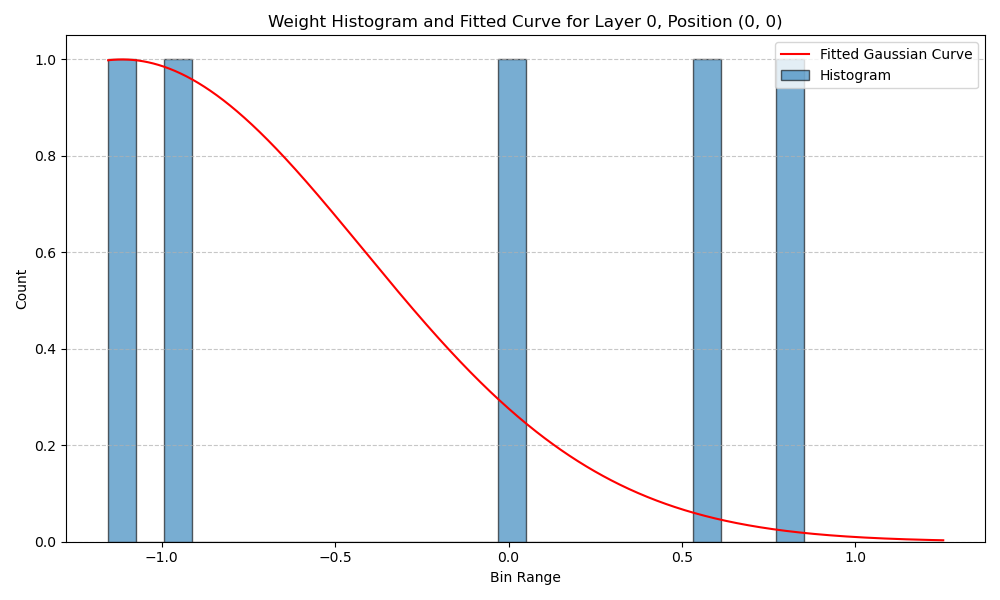
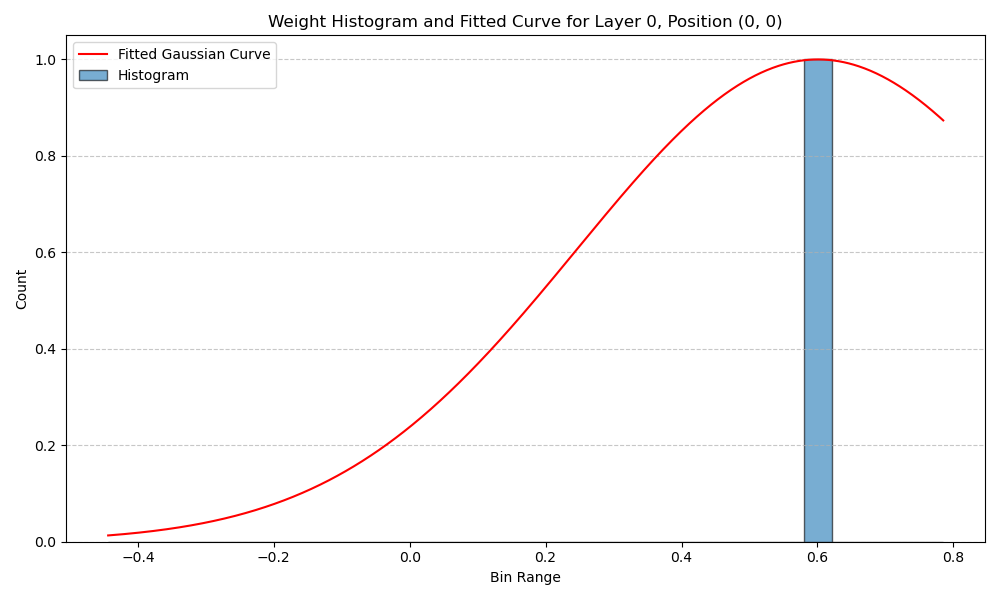
push

diff --git a/nnanalyzer/test.py b/nnanalyzer/test.py
@@ -47,8 +47,8 @@ loss_fn = MSELoss()
 save_dir = "./Histograms"
 
 #Create Network ananlyser object and generate networks
-networks = NetworkAnalyzer(model_architecture=SimpleNet, amount_to_produce=5, success_loss=0.3, convergence_threshold=(0.1), max_attempts=15)
-networks.generate_networks(train_loader=train_loader, test_loader=test_loader, num_epochs=200, loss_fn=loss_fn, learning_rate=0.05)
+networks = NetworkAnalyzer(model_architecture=SimpleNet, amount_to_produce=1, success_loss=0.3, convergence_threshold=(0.1), max_attempts=15)
+networks.generate_networks(train_loader=train_loader, test_loader=test_loader, num_epochs=20, loss_fn=loss_fn, learning_rate=0.05)
 
 
 #Create Weight binning object
@@ -74,7 +74,7 @@ layer_weight_distributions , layer_bin_ranges = analyzer.store_weights()
 this function plots the weight of a specific weight in a layer in the network using binned weights
 '''
 
-analyzer.plot_weight_bins(layer_weight_distributions , layer =0, weight_position=(0,0), bin_edges = layer_bin_ranges[0])
+analyzer.plot_weight_bins(layer_weight_distributions , layer =0, weight_position=(3,0), bin_edges = layer_bin_ranges[0])
 
 '''
 If you would prefer to use normalized distributios and counts for layer weight distributions use following function:
@@ -82,11 +82,18 @@ If you would prefer to use normalized distributios and counts for layer weight d
 
 normalized_weight_distributions, normalized_counts = analyzer.normalize_distributions(layer_weight_distributions)
 
+
+analyzer.save_normalized_distributions()
+
+'''
+Can also load npreviously saved normalized distributions
+'''
+# analyzer.load_normalized_distributions()
 '''
 The following functionn is used to pass the plot of the weght. does not save the plot
 '''
 
-analyzer.return_weight_bins_plot(layer_weight_distributions , layer =0, weight_position=(0,0), bin_edges = layer_bin_ranges[0])
+analyzer.return_weight_bins_plot(layer_weight_distributions , layer =0, weight_position=(3,1), bin_edges = layer_bin_ranges[0])
 
 '''
 This function plots the index of networks
@@ -110,13 +117,13 @@ analyzer.plot_weight_bins_with_fit(layer_weight_distributions, bin_edges=layer_b
         by replicating bin_centers replicate_factor * normalized_count times (if > 0).
 
 '''
-gmm_models = analyzer.fit_gmm_to_weight_distributions(layer_weight_distributions, layer_bin_ranges, 1)
+# gmm_models = analyzer.fit_gmm_to_weight_distributions(weight_distributions=layer_weight_distributions, bin_edges_list=layer_bin_ranges, peaks_per_layer=1)
 
 '''
 Plot the histogram of weights and the fitted GMM for a specified (layer, neuron_idx, from_weight_idx).
 '''
 
-analyzer.plot_weight_bins_with_gmm(layer_weight_distributions, bin_edges_list=layer_bin_ranges[0], gmm_models=gmm_models, layer=0, weight_position=(0,0))
+# analyzer.plot_weight_bins_with_gmm(layer_weight_distributions, bin_edges_list=layer_bin_ranges[0], gmm_models=gmm_models, layer=0, weight_position=(4,2))
 
 '''
 have fit params
@@ -127,9 +134,17 @@ fit_params = analyzer.fit()
 '''
 The following are for computing variances
 '''
+kl_threshold = 0.001
+ce_threshold = 0.555
 
-analyzer.compute_kl_divergence_gaussians()
-analyzer.compute_cross_entropy_gaussians()
+kl_indices = analyzer.cluster_gaussians_by_kl_divergence(fit_params=fit_params, threshold=kl_threshold)
+print(kl_indices)
+
+ce_indices = analyzer.cluster_gaussians_by_cross_entropy(fit_params=fit_params, threshold=ce_threshold)
+print(ce_indices)
+
+# analyzer.compute_kl_divergence_gaussians()
+# analyzer.compute_cross_entropy_gaussians()
 
 
 #analyzer.cluster_gaussians_by_kl_divergence(fit_params, )
@@ -148,4 +163,5 @@ analyzer.compute_cross_entropy_gaussians()
 '''
  
 
-#analyzer.plot_unique_distributions()
+analyzer.plot_unique_distributions(kl_indices, 0, normalized_weight_distributions, layer_bin_ranges, fit_params)
+

diff --git a/nnanalyzer/build/lib/nnanalyzer/src/BinningWeights.py b/nnanalyzer/build/lib/nnanalyzer/src/BinningWeights.py
@@ -369,7 +369,7 @@ class WeightBinning():
         """
         gmm_models = []
 
-        for layer_idx, (layer_data, bin_edges) in enumerate(zip(weight_distributions, bin_edges_list)):
+        for layer_idx, (layer_data, bin_edges) in enumerate(zip(weight_distributions,bin_edges_list)):
             n_components = peaks_per_layer[layer_idx]
             num_neurons, num_from_weights, num_bins = layer_data.shape
             layer_models = np.empty((num_neurons, num_from_weights), dtype=object)
@@ -625,7 +625,7 @@ class WeightBinning():
                 
 
 
-    def plot_unique_distributions(self, indices, layer, normalized_distributions, all_bin_edges, fit_params):
+    def plot_unique_distributions(self, indices, layer, normalized_distributions, fit_params):
         """
         Plot unique distributions for a specified layer based on cluster indices.
 
@@ -660,3 +660,30 @@ class WeightBinning():
                         fit_params=fit_params, layer=layer, weight_position=(i, j)
                     )
                     seen_indices.add(unique_distribution_index)
+
+    
+    def save_normalized_distributions(self):
+        """
+        Saves the normalized_distributions array as a .npy file in the specified directory.
+        """
+        save_dir="./outputs"
+        normalized_distributions = self.normalized_distributions
+
+        os.makedirs(save_dir, exist_ok=True)
+        
+        save_path = os.path.join(save_dir, "normalized_distributions.npy")
+        
+        np.save(save_path, np.array(normalized_distributions, dtype=object), allow_pickle=True)
+        print(f"normalized_distributions saved to {save_path}")
+
+
+
+    def load_normalized_distributions(load_path="my_list_of_arrays.npy"):
+        """
+        Loads a .npy file that contains a Python list of NumPy arrays.
+        """
+        loaded_obj = np.load(load_path, allow_pickle=True)
+        #convert the loaded object back to a Python list
+        arr_list = loaded_obj.tolist()
+        print(f"Loaded list of arrays from: {load_path}")
+        return arr_list

diff --git a/nnanalyzer/app/nnanalyzer/__init__.py b/nnanalyzer/app/nnanalyzer/__init__.py
@@ -1,4 +1,4 @@
-from .src.binningweights import(
+from .src.BinningWeights import(
     WeightBinning
 )
 

diff --git a/nnanalyzer/build/lib/nnanalyzer/__init__.py b/nnanalyzer/build/lib/nnanalyzer/__init__.py
@@ -1,4 +1,4 @@
-from .src.binningweights import(
+from .src.BinningWeights import(
     WeightBinning
 )
 
